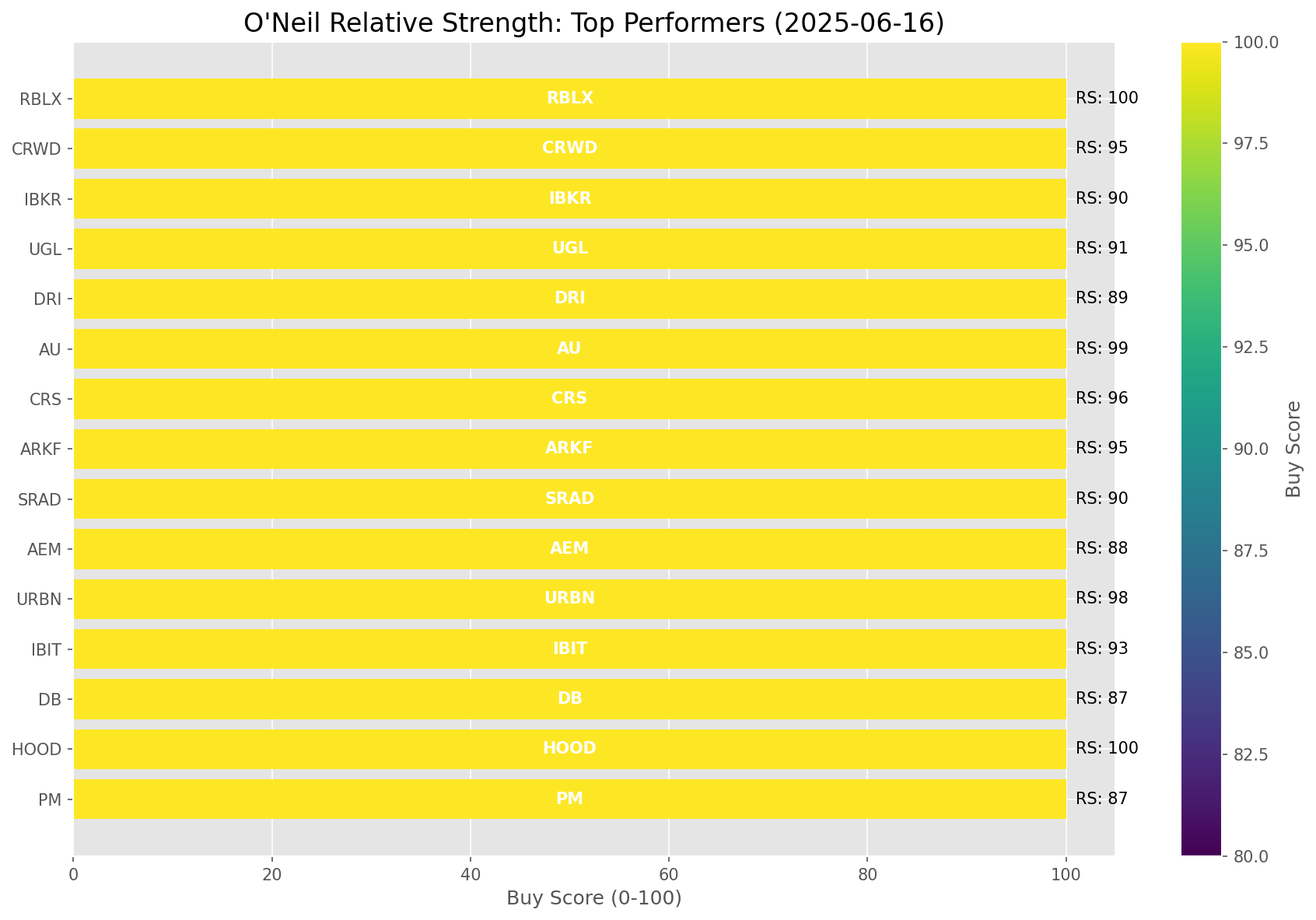
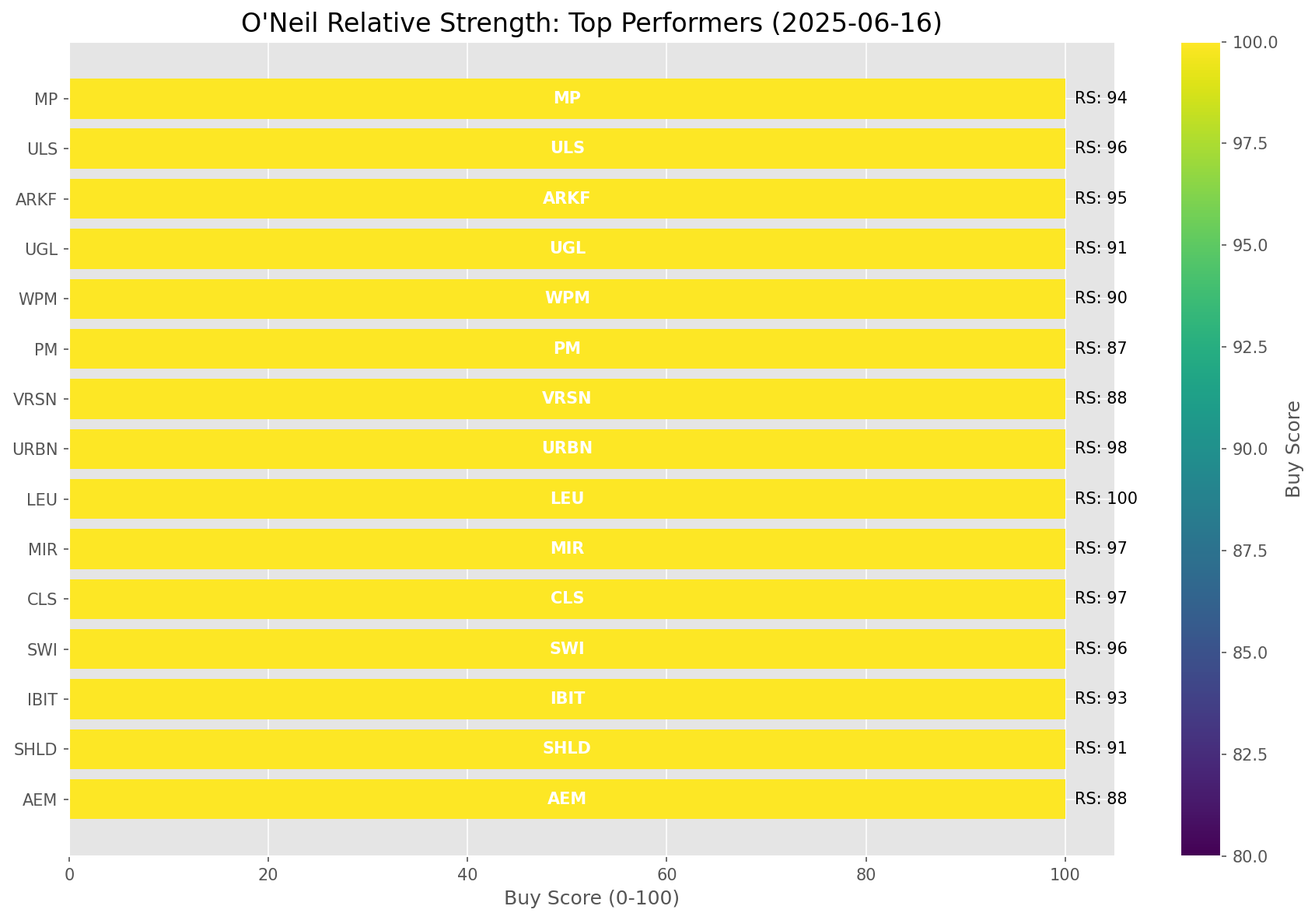
Add market report for 2025-06-16

diff --git a/oneil_relative_strength_report_2025-06-16.md b/oneil_relative_strength_report_2025-06-16.md
@@ -106,79 +106,87 @@ The **Next Generation Internet** sector (represented by **ARKW**) is showing par
 
 ## **Buy Recommendations**
 
-The following 72 stocks show exceptional relative strength:
+The following 80 stocks show exceptional relative strength:
 
 | RS Rating | Buy Score | Current Price | Chart | Name | Ticker |
 |-----------|-----------|---------------|-------|------|--------|
-| 100 | 100 | $76.75 | [Chart](https://www.tradingview.com/chart/?symbol=HOOD) | Robinhood Markets, Inc. Class A Common Stock | HOOD |
-| 100 | 100 | $100.44 | [Chart](https://www.tradingview.com/chart/?symbol=RBLX) | Roblox Corporation | RBLX |
-| 100 | 100 | $141.41 | [Chart](https://www.tradingview.com/chart/?symbol=PLTR) | Palantir Technologies Inc. Class A Common Stock | PLTR |
 | 100 | 100 | $169.93 | [Chart](https://www.tradingview.com/chart/?symbol=LEU) | Centrus Energy Corp. | LEU |
+| 100 | 100 | $76.75 | [Chart](https://www.tradingview.com/chart/?symbol=HOOD) | Robinhood Markets, Inc. Class A Common Stock | HOOD |
+| 100 | 100 | $141.41 | [Chart](https://www.tradingview.com/chart/?symbol=PLTR) | Palantir Technologies Inc. Class A Common Stock | PLTR |
 | 100 | 100 | $146.43 | [Chart](https://www.tradingview.com/chart/?symbol=SEZL) | Sezzle Inc. Common Stock | SEZL |
 | 100 | 100 | $59.78 | [Chart](https://www.tradingview.com/chart/?symbol=HIMS) | Hims & Hers Health, Inc. | HIMS |
+| 100 | 100 | $100.44 | [Chart](https://www.tradingview.com/chart/?symbol=RBLX) | Roblox Corporation | RBLX |
 | 99 | 100 | $49.68 | [Chart](https://www.tradingview.com/chart/?symbol=AU) | AngloGold Ashanti plc | AU |
 | 99 | 100 | $179.27 | [Chart](https://www.tradingview.com/chart/?symbol=NET) | Cloudflare, Inc. Class A common stock, par value $0.001 per share | NET |
 | 98 | 100 | $70.82 | [Chart](https://www.tradingview.com/chart/?symbol=URBN) | Urban Outfitters Inc | URBN |
-| 98 | 100 | $43.82 | [Chart](https://www.tradingview.com/chart/?symbol=FARO) | Faro Technologies Inc | FARO |
 | 98 | 100 | $487.88 | [Chart](https://www.tradingview.com/chart/?symbol=GEV) | GE Vernova Inc. | GEV |
-| 97 | 100 | $144.36 | [Chart](https://www.tradingview.com/chart/?symbol=COOP) | Mr. Cooper Group Inc. Common Stock | COOP |
-| 97 | 100 | $780.61 | [Chart](https://www.tradingview.com/chart/?symbol=AXON) | Axon Enterprise, Inc. Common Stock | AXON |
+| 98 | 100 | $43.82 | [Chart](https://www.tradingview.com/chart/?symbol=FARO) | Faro Technologies Inc | FARO |
 | 97 | 100 | $128.24 | [Chart](https://www.tradingview.com/chart/?symbol=CLS) | Celestica, Inc. | CLS |
+| 97 | 100 | $20.56 | [Chart](https://www.tradingview.com/chart/?symbol=MIR) | Mirion Technologies, Inc. | MIR |
 | 97 | 100 | $26.46 | [Chart](https://www.tradingview.com/chart/?symbol=CRK) | Comstock Resources, Inc. | CRK |
+| 97 | 100 | $780.61 | [Chart](https://www.tradingview.com/chart/?symbol=AXON) | Axon Enterprise, Inc. Common Stock | AXON |
 | 97 | 100 | $23.46 | [Chart](https://www.tradingview.com/chart/?symbol=GRND) | Grindr Inc. | GRND |
-| 96 | 100 | $249.59 | [Chart](https://www.tradingview.com/chart/?symbol=CRS) | Carpenter Technology Corp | CRS |
+| 97 | 100 | $144.36 | [Chart](https://www.tradingview.com/chart/?symbol=COOP) | Mr. Cooper Group Inc. Common Stock | COOP |
 | 96 | 100 | $71.52 | [Chart](https://www.tradingview.com/chart/?symbol=ULS) | UL Solutions Inc. | ULS |
+| 96 | 100 | $249.59 | [Chart](https://www.tradingview.com/chart/?symbol=CRS) | Carpenter Technology Corp | CRS |
 | 96 | 100 | $280.92 | [Chart](https://www.tradingview.com/chart/?symbol=TLN) | Talen Energy Corporation Common Stock | TLN |
 | 95 | 100 | $45.94 | [Chart](https://www.tradingview.com/chart/?symbol=ARKF) | ARK Fintech Innovation ETF | ARKF |
-| 95 | 100 | $479.39 | [Chart](https://www.tradingview.com/chart/?symbol=CRWD) | CrowdStrike Holdings, Inc. Class A Common Stock | CRWD |
-| 95 | 100 | $26.37 | [Chart](https://www.tradingview.com/chart/?symbol=OR) | OR Royalties Inc. | OR |
 | 95 | 100 | $253.60 | [Chart](https://www.tradingview.com/chart/?symbol=GWRE) | GUIDEWIRE SOFTWARE, INC. | GWRE |
+| 95 | 100 | $26.37 | [Chart](https://www.tradingview.com/chart/?symbol=OR) | OR Royalties Inc. | OR |
+| 95 | 100 | $479.39 | [Chart](https://www.tradingview.com/chart/?symbol=CRWD) | CrowdStrike Holdings, Inc. Class A Common Stock | CRWD |
+| 94 | 100 | $34.65 | [Chart](https://www.tradingview.com/chart/?symbol=MP) | MP Materials Corp. | MP |
+| 94 | 100 | $24.53 | [Chart](https://www.tradingview.com/chart/?symbol=TFPM) | Triple Flag Precious Metals Corp. | TFPM |
+| 94 | 100 | $41.21 | [Chart](https://www.tradingview.com/chart/?symbol=KTOS) | Kratos Defense & Security Solutions, Inc. | KTOS |
 | 94 | 100 | $1225.35 | [Chart](https://www.tradingview.com/chart/?symbol=NFLX) | NetFlix Inc | NFLX |
 | 93 | 100 | $61.80 | [Chart](https://www.tradingview.com/chart/?symbol=IBIT) | iShares Bitcoin Trust ETF | IBIT |
-| 93 | 100 | $21.46 | [Chart](https://www.tradingview.com/chart/?symbol=MAG) | MAG Silver Corp. | MAG |
-| 93 | 100 | $131.08 | [Chart](https://www.tradingview.com/chart/?symbol=NTES) | NetEase, inc. | NTES |
-| 93 | 100 | $506.39 | [Chart](https://www.tradingview.com/chart/?symbol=CASY) | Casey's General Stores Inc | CASY |
 | 93 | 100 | $181.26 | [Chart](https://www.tradingview.com/chart/?symbol=EAT) | Brinker International, Inc. | EAT |
+| 93 | 100 | $21.46 | [Chart](https://www.tradingview.com/chart/?symbol=MAG) | MAG Silver Corp. | MAG |
+| 93 | 100 | $506.39 | [Chart](https://www.tradingview.com/chart/?symbol=CASY) | Casey's General Stores Inc | CASY |
+| 93 | 100 | $131.08 | [Chart](https://www.tradingview.com/chart/?symbol=NTES) | NetEase, inc. | NTES |
 | 93 | 100 | $104.49 | [Chart](https://www.tradingview.com/chart/?symbol=JCI) | Johnson Controls International plc | JCI |
 | 92 | 100 | $162.41 | [Chart](https://www.tradingview.com/chart/?symbol=CAH) | Cardinal Health, Inc. | CAH |
+| 92 | 100 | $59.14 | [Chart](https://www.tradingview.com/chart/?symbol=CAKE) | Cheesecake Factory (The) | CAKE |
 | 92 | 100 | $55.75 | [Chart](https://www.tradingview.com/chart/?symbol=AKRO) | Akero Therapeutics, Inc. Common Stock | AKRO |
+| 91 | 100 | $58.83 | [Chart](https://www.tradingview.com/chart/?symbol=SHLD) | Global X Defense Tech ETF | SHLD |
 | 91 | 100 | $36.40 | [Chart](https://www.tradingview.com/chart/?symbol=UGL) | ProShares Ultra Gold | UGL |
 | 91 | 100 | $69.62 | [Chart](https://www.tradingview.com/chart/?symbol=GDXJ) | VanEck Junior Gold Miners ETF | GDXJ |
-| 91 | 100 | $58.83 | [Chart](https://www.tradingview.com/chart/?symbol=SHLD) | Global X Defense Tech ETF | SHLD |
-| 90 | 100 | $24.65 | [Chart](https://www.tradingview.com/chart/?symbol=SRAD) | Sportradar Group AG Class A Ordinary Shares | SRAD |
-| 90 | 100 | $209.66 | [Chart](https://www.tradingview.com/chart/?symbol=IBKR) | Interactive Brokers Group, Inc. Class A Common Stock | IBKR |
+| 90 | 100 | $91.89 | [Chart](https://www.tradingview.com/chart/?symbol=WPM) | Wheaton Precious Metals Corp. Common Stock | WPM |
 | 90 | 100 | $63.20 | [Chart](https://www.tradingview.com/chart/?symbol=CHEF) | The Chef's Warehouse Inc | CHEF |
+| 90 | 100 | $209.66 | [Chart](https://www.tradingview.com/chart/?symbol=IBKR) | Interactive Brokers Group, Inc. Class A Common Stock | IBKR |
+| 90 | 100 | $24.65 | [Chart](https://www.tradingview.com/chart/?symbol=SRAD) | Sportradar Group AG Class A Ordinary Shares | SRAD |
 | 90 | 100 | $74.19 | [Chart](https://www.tradingview.com/chart/?symbol=CTVA) | Corteva, Inc. Common Stock | CTVA |
-| 89 | 100 | $224.76 | [Chart](https://www.tradingview.com/chart/?symbol=DRI) | Darden Restaurants, Inc. | DRI |
 | 89 | 100 | $715.57 | [Chart](https://www.tradingview.com/chart/?symbol=SPOT) | Spotify Technology S.A. | SPOT |
+| 89 | 100 | $224.76 | [Chart](https://www.tradingview.com/chart/?symbol=DRI) | Darden Restaurants, Inc. | DRI |
 | 88 | 100 | $124.01 | [Chart](https://www.tradingview.com/chart/?symbol=AEM) | Agnico Eagle Mines Ltd. | AEM |
-| 88 | 100 | $84.26 | [Chart](https://www.tradingview.com/chart/?symbol=TPR) | Tapestry, Inc. Common Stock | TPR |
 | 88 | 100 | $281.08 | [Chart](https://www.tradingview.com/chart/?symbol=VRSN) | VeriSign Inc | VRSN |
+| 88 | 100 | $84.26 | [Chart](https://www.tradingview.com/chart/?symbol=TPR) | Tapestry, Inc. Common Stock | TPR |
 | 87 | 100 | $183.29 | [Chart](https://www.tradingview.com/chart/?symbol=PM) | Philip Morris International Inc. | PM |
 | 87 | 100 | $28.12 | [Chart](https://www.tradingview.com/chart/?symbol=DB) | Deutsche Bank Aktiengesellschaft | DB |
-| 89 | 99 | $53.55 | [Chart](https://www.tradingview.com/chart/?symbol=GDX) | VanEck Gold Miners ETF | GDX |
 | 89 | 99 | $197.62 | [Chart](https://www.tradingview.com/chart/?symbol=COF) | Capital One Financial | COF |
-| 87 | 99 | $49.00 | [Chart](https://www.tradingview.com/chart/?symbol=BTI) | British American Tobacco p.l.c. American Depositary Shares, American Depositary Shares, each representing one Ordinary Share | BTI |
+| 89 | 99 | $53.55 | [Chart](https://www.tradingview.com/chart/?symbol=GDX) | VanEck Gold Miners ETF | GDX |
 | 87 | 99 | $29.24 | [Chart](https://www.tradingview.com/chart/?symbol=IMAX) | Imax Corp | IMAX |
+| 87 | 99 | $49.00 | [Chart](https://www.tradingview.com/chart/?symbol=BTI) | British American Tobacco p.l.c. American Depositary Shares, American Depositary Shares, each representing one Ordinary Share | BTI |
 | 86 | 99 | $41.92 | [Chart](https://www.tradingview.com/chart/?symbol=VIRT) | Virtu Financial, Inc. Class A | VIRT |
 | 85 | 99 | $238.60 | [Chart](https://www.tradingview.com/chart/?symbol=TTWO) | Take-Two Interactive Software Inc | TTWO |
 | 89 | 98 | $48.69 | [Chart](https://www.tradingview.com/chart/?symbol=SIL) | Global X Silver Miners ETF (NEW) | SIL |
+| 85 | 97 | $76.17 | [Chart](https://www.tradingview.com/chart/?symbol=LLYVK) | Liberty Media Corporation Series C Liberty Live Common Stock | LLYVK |
 | 86 | 96 | $86.68 | [Chart](https://www.tradingview.com/chart/?symbol=NDAQ) | Nasdaq, Inc. Common Stock | NDAQ |
-| 86 | 96 | $187.54 | [Chart](https://www.tradingview.com/chart/?symbol=CVLT) | Commault Systems, Inc. | CVLT |
 | 86 | 96 | $135.88 | [Chart](https://www.tradingview.com/chart/?symbol=PPA) | Invesco Aerospace & Defense ETF | PPA |
+| 86 | 96 | $187.54 | [Chart](https://www.tradingview.com/chart/?symbol=CVLT) | Commault Systems, Inc. | CVLT |
+| 85 | 96 | $218.32 | [Chart](https://www.tradingview.com/chart/?symbol=BAP) | Credicorp LTD | BAP |
 | 85 | 96 | $179.70 | [Chart](https://www.tradingview.com/chart/?symbol=RGLD) | Royal Gold Inc | RGLD |
 | 85 | 95 | $87.97 | [Chart](https://www.tradingview.com/chart/?symbol=SANM) | Sanmina  Corp | SANM |
 | 83 | 95 | $43.55 | [Chart](https://www.tradingview.com/chart/?symbol=EWP) | iShares MSCI Spain ETF | EWP |
 | 84 | 94 | $198.10 | [Chart](https://www.tradingview.com/chart/?symbol=GPOR) | Gulfport Energy Corporation | GPOR |
-| 81 | 94 | $63.80 | [Chart](https://www.tradingview.com/chart/?symbol=IAU) | iShares Gold Trust | IAU |
-| 81 | 94 | $32.28 | [Chart](https://www.tradingview.com/chart/?symbol=SGOL) | abrdn Physical Gold Shares ETF | SGOL |
-| 81 | 94 | $33.42 | [Chart](https://www.tradingview.com/chart/?symbol=AAAU) | Goldman Sachs Physical Gold ETF Shares | AAAU |
-| 81 | 94 | $311.78 | [Chart](https://www.tradingview.com/chart/?symbol=GLD) | SPDR Gold Trust, SPDR Gold Shares | GLD |
-| 81 | 94 | $32.62 | [Chart](https://www.tradingview.com/chart/?symbol=OUNZ) | VanEck Merk Gold ETF | OUNZ |
-| 81 | 94 | $67.02 | [Chart](https://www.tradingview.com/chart/?symbol=GLDM) | SPDR Gold MiniShares | GLDM |
 | 81 | 94 | $58.17 | [Chart](https://www.tradingview.com/chart/?symbol=EQT) | EQT CORP | EQT |
-| 84 | 93 | $49.30 | [Chart](https://www.tradingview.com/chart/?symbol=GH) | Guardant Health, Inc. Common Stock | GH |
+| 81 | 94 | $311.78 | [Chart](https://www.tradingview.com/chart/?symbol=GLD) | SPDR Gold Trust, SPDR Gold Shares | GLD |
+| 81 | 94 | $32.28 | [Chart](https://www.tradingview.com/chart/?symbol=SGOL) | abrdn Physical Gold Shares ETF | SGOL |
+| 81 | 94 | $32.62 | [Chart](https://www.tradingview.com/chart/?symbol=OUNZ) | VanEck Merk Gold ETF | OUNZ |
+| 81 | 94 | $63.80 | [Chart](https://www.tradingview.com/chart/?symbol=IAU) | iShares Gold Trust | IAU |
+| 81 | 94 | $67.02 | [Chart](https://www.tradingview.com/chart/?symbol=GLDM) | SPDR Gold MiniShares | GLDM |
+| 81 | 94 | $33.42 | [Chart](https://www.tradingview.com/chart/?symbol=AAAU) | Goldman Sachs Physical Gold ETF Shares | AAAU |
 | 84 | 93 | $88.97 | [Chart](https://www.tradingview.com/chart/?symbol=SCHW) | The Charles Schwab Corporation | SCHW |
+| 84 | 93 | $49.30 | [Chart](https://www.tradingview.com/chart/?symbol=GH) | Guardant Health, Inc. Common Stock | GH |
 | 83 | 93 | $80.44 | [Chart](https://www.tradingview.com/chart/?symbol=BBCA) | JPMorgan BetaBuilders Canada ETF | BBCA |
 | 81 | 93 | $33.74 | [Chart](https://www.tradingview.com/chart/?symbol=IAUM) | iShares Gold Trust Micro | IAUM |
 | 81 | 91 | $168.25 | [Chart](https://www.tradingview.com/chart/?symbol=NTRA) | Natera, Inc. Common Stock | NTRA |
@@ -193,55 +201,55 @@ The following 141 stocks show deteriorating relative strength:
 | RS Rating | Sell Score | Current Price | Chart | Name | Ticker |
 |-----------|------------|---------------|-------|------|--------|
 | 1 | 100 | $30.47 | [Chart](https://www.tradingview.com/chart/?symbol=TECS) | Direxion Daily Technology Bear 3x Shares | TECS |
-| 1 | 100 | $12.39 | [Chart](https://www.tradingview.com/chart/?symbol=IART) | Integra LifeSciences Holdings | IART |
 | 1 | 100 | $16.53 | [Chart](https://www.tradingview.com/chart/?symbol=NVDS) | Investment Managers Series Trust II Tradr 1.5X Short NVDA Daily ETF | NVDS |
-| 2 | 100 | $10.72 | [Chart](https://www.tradingview.com/chart/?symbol=WNC) | Wabash National Corp. | WNC |
-| 2 | 100 | $10.25 | [Chart](https://www.tradingview.com/chart/?symbol=SNDX) | Syndax Pharmaceuticals, Inc. | SNDX |
+| 1 | 100 | $12.39 | [Chart](https://www.tradingview.com/chart/?symbol=IART) | Integra LifeSciences Holdings | IART |
 | 2 | 100 | $50.50 | [Chart](https://www.tradingview.com/chart/?symbol=LGIH) | LGI Homes, Inc. | LGIH |
-| 2 | 100 | $17.88 | [Chart](https://www.tradingview.com/chart/?symbol=ICHR) | Ichor Holdings | ICHR |
 | 2 | 100 | $11.91 | [Chart](https://www.tradingview.com/chart/?symbol=NRIX) | Nurix Therapeutics, Inc. Common stock | NRIX |
+| 2 | 100 | $10.72 | [Chart](https://www.tradingview.com/chart/?symbol=WNC) | Wabash National Corp. | WNC |
 | 2 | 100 | $10.14 | [Chart](https://www.tradingview.com/chart/?symbol=PACS) | PACS Group, Inc. | PACS |
 | 2 | 100 | $23.91 | [Chart](https://www.tradingview.com/chart/?symbol=CRTO) | Criteo S.A. | CRTO |
-| 3 | 100 | $13.43 | [Chart](https://www.tradingview.com/chart/?symbol=INMD) | InMode Ltd. Ordinary Shares | INMD |
+| 2 | 100 | $10.25 | [Chart](https://www.tradingview.com/chart/?symbol=SNDX) | Syndax Pharmaceuticals, Inc. | SNDX |
+| 2 | 100 | $17.88 | [Chart](https://www.tradingview.com/chart/?symbol=ICHR) | Ichor Holdings | ICHR |
+| 3 | 100 | $20.57 | [Chart](https://www.tradingview.com/chart/?symbol=THS) | Treehouse Foods, Inc. | THS |
+| 3 | 100 | $133.04 | [Chart](https://www.tradingview.com/chart/?symbol=KRYS) | Krystal Biotech, Inc. Common Stock | KRYS |
 | 3 | 100 | $98.87 | [Chart](https://www.tradingview.com/chart/?symbol=ONTO) | Onto Innovation Inc. | ONTO |
 | 3 | 100 | $18.30 | [Chart](https://www.tradingview.com/chart/?symbol=APLS) | Apellis Pharmaceuticals, Inc. Common Stock | APLS |
-| 3 | 100 | $133.04 | [Chart](https://www.tradingview.com/chart/?symbol=KRYS) | Krystal Biotech, Inc. Common Stock | KRYS |
-| 3 | 100 | $20.57 | [Chart](https://www.tradingview.com/chart/?symbol=THS) | Treehouse Foods, Inc. | THS |
+| 3 | 100 | $13.43 | [Chart](https://www.tradingview.com/chart/?symbol=INMD) | InMode Ltd. Ordinary Shares | INMD |
 | 3 | 100 | $43.69 | [Chart](https://www.tradingview.com/chart/?symbol=LINE) | Lineage, Inc. Common Stock | LINE |
+| 4 | 100 | $29.48 | [Chart](https://www.tradingview.com/chart/?symbol=FUN) | Six Flags Entertainment Corporation | FUN |
 | 4 | 100 | $23.61 | [Chart](https://www.tradingview.com/chart/?symbol=JANX) | Janux Therapeutics, Inc. Common Stock | JANX |
 | 4 | 100 | $33.78 | [Chart](https://www.tradingview.com/chart/?symbol=CYTK) | Cytokinetics Inc. | CYTK |
-| 4 | 100 | $29.48 | [Chart](https://www.tradingview.com/chart/?symbol=FUN) | Six Flags Entertainment Corporation | FUN |
-| 5 | 100 | $11.34 | [Chart](https://www.tradingview.com/chart/?symbol=HPK) | HighPeak Energy, Inc. Common Stock | HPK |
-| 5 | 100 | $10.84 | [Chart](https://www.tradingview.com/chart/?symbol=TWO) | Two Harbors Investment Corp. | TWO |
-| 5 | 100 | $21.58 | [Chart](https://www.tradingview.com/chart/?symbol=AMRK) | A-Mark Precious Metals, Inc. | AMRK |
-| 5 | 100 | $11.26 | [Chart](https://www.tradingview.com/chart/?symbol=PUBM) | PubMatic, Inc. Class A Common Stock | PUBM |
 | 5 | 100 | $51.48 | [Chart](https://www.tradingview.com/chart/?symbol=SLVM) | Sylvamo Corporation | SLVM |
-| 6 | 100 | $84.22 | [Chart](https://www.tradingview.com/chart/?symbol=LNW) | Light & Wonder, Inc. Common Stock | LNW |
-| 6 | 100 | $15.28 | [Chart](https://www.tradingview.com/chart/?symbol=SAFE) | Safehold Inc. | SAFE |
-| 6 | 100 | $20.53 | [Chart](https://www.tradingview.com/chart/?symbol=HI) | Hillenbrand, Inc. | HI |
+| 5 | 100 | $10.84 | [Chart](https://www.tradingview.com/chart/?symbol=TWO) | Two Harbors Investment Corp. | TWO |
+| 5 | 100 | $11.34 | [Chart](https://www.tradingview.com/chart/?symbol=HPK) | HighPeak Energy, Inc. Common Stock | HPK |
+| 5 | 100 | $11.26 | [Chart](https://www.tradingview.com/chart/?symbol=PUBM) | PubMatic, Inc. Class A Common Stock | PUBM |
+| 5 | 100 | $21.58 | [Chart](https://www.tradingview.com/chart/?symbol=AMRK) | A-Mark Precious Metals, Inc. | AMRK |
 | 6 | 100 | $10.62 | [Chart](https://www.tradingview.com/chart/?symbol=CWK) | Cushman & Wakefield plc Ordinary Shares | CWK |
+| 6 | 100 | $20.53 | [Chart](https://www.tradingview.com/chart/?symbol=HI) | Hillenbrand, Inc. | HI |
+| 6 | 100 | $15.28 | [Chart](https://www.tradingview.com/chart/?symbol=SAFE) | Safehold Inc. | SAFE |
+| 6 | 100 | $84.22 | [Chart](https://www.tradingview.com/chart/?symbol=LNW) | Light & Wonder, Inc. Common Stock | LNW |
 | 7 | 100 | $23.54 | [Chart](https://www.tradingview.com/chart/?symbol=RPD) | Rapid7, Inc. Common Stock | RPD |
-| 7 | 100 | $16.94 | [Chart](https://www.tradingview.com/chart/?symbol=AMTB) | Amerant Bancorp Inc. | AMTB |
 | 7 | 100 | $38.49 | [Chart](https://www.tradingview.com/chart/?symbol=APOG) | Apogee Enterprises Inc | APOG |
-| 8 | 100 | $17.25 | [Chart](https://www.tradingview.com/chart/?symbol=CODI) | Compass Diversified | CODI |
+| 7 | 100 | $16.94 | [Chart](https://www.tradingview.com/chart/?symbol=AMTB) | Amerant Bancorp Inc. | AMTB |
 | 8 | 100 | $36.23 | [Chart](https://www.tradingview.com/chart/?symbol=TMF) | Direxion Daily 20+ Year Treasury Bull 3X Shares (based on the NYSE 20 Year Plus Treasury Bond Index; symbol AXTWEN) | TMF |
 | 8 | 100 | $18.22 | [Chart](https://www.tradingview.com/chart/?symbol=DNTH) | Dianthus Therapeutics, Inc. Common Stock | DNTH |
 | 8 | 100 | $12.98 | [Chart](https://www.tradingview.com/chart/?symbol=THRY) | Thryv Holdings, Inc. Common Stock | THRY |
-| 9 | 100 | $10.15 | [Chart](https://www.tradingview.com/chart/?symbol=NMFC) | NEW MOUNTAIN FINANCE CORPORATION | NMFC |
+| 8 | 100 | $17.25 | [Chart](https://www.tradingview.com/chart/?symbol=CODI) | Compass Diversified | CODI |
 | 9 | 100 | $20.60 | [Chart](https://www.tradingview.com/chart/?symbol=SPT) | Sprout Social, Inc Class A Common Stock | SPT |
-| 10 | 100 | $19.40 | [Chart](https://www.tradingview.com/chart/?symbol=HVT) | Haverty Furniture Companies, Inc. | HVT |
+| 9 | 100 | $10.15 | [Chart](https://www.tradingview.com/chart/?symbol=NMFC) | NEW MOUNTAIN FINANCE CORPORATION | NMFC |
 | 10 | 100 | $51.95 | [Chart](https://www.tradingview.com/chart/?symbol=AMWD) | American Woodmark Corp | AMWD |
+| 10 | 100 | $19.40 | [Chart](https://www.tradingview.com/chart/?symbol=HVT) | Haverty Furniture Companies, Inc. | HVT |
+| 11 | 100 | $85.82 | [Chart](https://www.tradingview.com/chart/?symbol=BCC) | Boise Cascade Company | BCC |
 | 11 | 100 | $26.47 | [Chart](https://www.tradingview.com/chart/?symbol=WSC) | WillScot Holdings Corporation Class A Common Stock | WSC |
 | 11 | 100 | $121.11 | [Chart](https://www.tradingview.com/chart/?symbol=TFX) | Teleflex Incorporated | TFX |
-| 11 | 100 | $85.82 | [Chart](https://www.tradingview.com/chart/?symbol=BCC) | Boise Cascade Company | BCC |
 | 12 | 100 | $10.02 | [Chart](https://www.tradingview.com/chart/?symbol=LBTYA) | Liberty Global Ltd. Class A Common Shares | LBTYA |
 | 13 | 100 | $29.80 | [Chart](https://www.tradingview.com/chart/?symbol=RNA) | Avidity Biosciences, Inc. Common Stock | RNA |
-| 15 | 100 | $133.24 | [Chart](https://www.tradingview.com/chart/?symbol=ICUI) | ICU Medical Inc | ICUI |
 | 15 | 100 | $113.09 | [Chart](https://www.tradingview.com/chart/?symbol=AMR) | Alpha Metallurgical Resources, Inc. | AMR |
+| 15 | 100 | $133.24 | [Chart](https://www.tradingview.com/chart/?symbol=ICUI) | ICU Medical Inc | ICUI |
 | 17 | 100 | $10.20 | [Chart](https://www.tradingview.com/chart/?symbol=LBTYK) | Liberty Global Ltd. Class C Common Shares | LBTYK |
 | 6 | 99 | $29.22 | [Chart](https://www.tradingview.com/chart/?symbol=QDEL) | QuidelOrtho Corporation Common Stock | QDEL |
-| 10 | 99 | $41.67 | [Chart](https://www.tradingview.com/chart/?symbol=PRKS) | United Parks & Resorts Inc. | PRKS |
 | 10 | 99 | $17.70 | [Chart](https://www.tradingview.com/chart/?symbol=ZTO) | ZTO Express (Cayman) Inc. American Depositary Shares, each representing one Class A ordinary share | ZTO |
+| 10 | 99 | $41.67 | [Chart](https://www.tradingview.com/chart/?symbol=PRKS) | United Parks & Resorts Inc. | PRKS |
 | 11 | 99 | $18.66 | [Chart](https://www.tradingview.com/chart/?symbol=PLAB) | Photronics Inc | PLAB |
 | 12 | 99 | $46.43 | [Chart](https://www.tradingview.com/chart/?symbol=SDOW) | ProShares UltraPro Short Dow 30 | SDOW |
 | 14 | 99 | $74.46 | [Chart](https://www.tradingview.com/chart/?symbol=CBT) | Cabot Corporation | CBT |
@@ -251,8 +259,8 @@ The following 141 stocks show deteriorating relative strength:
 | 10 | 98 | $12.45 | [Chart](https://www.tradingview.com/chart/?symbol=PMT) | PennyMac Mortgage Investment Trust | PMT |
 | 10 | 98 | $17.98 | [Chart](https://www.tradingview.com/chart/?symbol=IRT) | Independence Realty Trust Inc. | IRT |
 | 9 | 97 | $49.41 | [Chart](https://www.tradingview.com/chart/?symbol=SNY) | Sanofi American Depositary Shares (Each representing one-half of one ordinary share) | SNY |
-| 10 | 97 | $21.16 | [Chart](https://www.tradingview.com/chart/?symbol=KIDS) | OrthoPediatrics Corp. Common Stock | KIDS |
 | 10 | 97 | $12.24 | [Chart](https://www.tradingview.com/chart/?symbol=WSR) | Whitestone REIT | WSR |
+| 10 | 97 | $21.16 | [Chart](https://www.tradingview.com/chart/?symbol=KIDS) | OrthoPediatrics Corp. Common Stock | KIDS |
 | 11 | 97 | $15.08 | [Chart](https://www.tradingview.com/chart/?symbol=IGT) | International Game Technology PLC | IGT |
 | 6 | 96 | $12.43 | [Chart](https://www.tradingview.com/chart/?symbol=ERII) | Energy Recovery, Inc. | ERII |
 | 9 | 96 | $25.91 | [Chart](https://www.tradingview.com/chart/?symbol=ATHM) | Autohome Inc. American Depositary Shares, each representing four Class A Ordinary Shares | ATHM |
@@ -269,8 +277,8 @@ The following 141 stocks show deteriorating relative strength:
 | 8 | 92 | $126.09 | [Chart](https://www.tradingview.com/chart/?symbol=RGEN) | Repligen Corp | RGEN |
 | 16 | 92 | $96.85 | [Chart](https://www.tradingview.com/chart/?symbol=UFPI) | UFP Industries, Inc. Common Stock | UFPI |
 | 18 | 92 | $37.09 | [Chart](https://www.tradingview.com/chart/?symbol=LIT) | Global X Lithium & Battery Tech ETF | LIT |
-| 18 | 92 | $36.05 | [Chart](https://www.tradingview.com/chart/?symbol=NBHC) | NATIONAL BANK HOLDINGS CORP. | NBHC |
 | 18 | 92 | $14.98 | [Chart](https://www.tradingview.com/chart/?symbol=VRE) | Veris Residential, Inc. | VRE |
+| 18 | 92 | $36.05 | [Chart](https://www.tradingview.com/chart/?symbol=NBHC) | NATIONAL BANK HOLDINGS CORP. | NBHC |
 | 20 | 92 | $10.28 | [Chart](https://www.tradingview.com/chart/?symbol=NMZ) | Nuveen Municipal High Income Opportunity Fund | NMZ |
 | 13 | 91 | $62.49 | [Chart](https://www.tradingview.com/chart/?symbol=MAS) | Masco Corporation | MAS |
 | 17 | 91 | $64.29 | [Chart](https://www.tradingview.com/chart/?symbol=EDV) | Vanguard World Funds Extended Duration ETF | EDV |
@@ -282,8 +290,8 @@ The following 141 stocks show deteriorating relative strength:
 | 14 | 89 | $73.71 | [Chart](https://www.tradingview.com/chart/?symbol=AAON) | Aaon Inc | AAON |
 | 15 | 89 | $10.38 | [Chart](https://www.tradingview.com/chart/?symbol=LOCO) | El Pollo Loco Holdings, Inc. | LOCO |
 | 15 | 89 | $97.79 | [Chart](https://www.tradingview.com/chart/?symbol=CHD) | Church & Dwight Co., Inc. | CHD |
-| 16 | 89 | $38.04 | [Chart](https://www.tradingview.com/chart/?symbol=LKQ) | LKQ Corporation | LKQ |
 | 16 | 89 | $103.07 | [Chart](https://www.tradingview.com/chart/?symbol=MHK) | Mohawk Industries, Inc. | MHK |
+| 16 | 89 | $38.04 | [Chart](https://www.tradingview.com/chart/?symbol=LKQ) | LKQ Corporation | LKQ |
 | 17 | 89 | $61.80 | [Chart](https://www.tradingview.com/chart/?symbol=ELS) | Equity Lifestyle Properties, Inc. | ELS |
 | 18 | 89 | $41.04 | [Chart](https://www.tradingview.com/chart/?symbol=GBCI) | Glacier Bancorp Inc | GBCI |
 | 20 | 89 | $40.36 | [Chart](https://www.tradingview.com/chart/?symbol=NBTB) | NBT Bancorp Inc | NBTB |
@@ -298,8 +306,8 @@ The following 141 stocks show deteriorating relative strength:
 | 17 | 86 | $18.67 | [Chart](https://www.tradingview.com/chart/?symbol=DJT) | Trump Media & Technology Group Corp. Common Stock | DJT |
 | 25 | 86 | $55.24 | [Chart](https://www.tradingview.com/chart/?symbol=UHAL.B) | U-Haul Holding Company | UHAL.B |
 | 25 | 86 | $44.51 | [Chart](https://www.tradingview.com/chart/?symbol=SON) | Sonoco Products Company | SON |
-| 21 | 85 | $339.13 | [Chart](https://www.tradingview.com/chart/?symbol=EG) | Everest Group, Ltd. | EG |
 | 21 | 85 | $16.86 | [Chart](https://www.tradingview.com/chart/?symbol=UMH) | UMH Properties, Inc. | UMH |
+| 21 | 85 | $339.13 | [Chart](https://www.tradingview.com/chart/?symbol=EG) | Everest Group, Ltd. | EG |
 | 26 | 85 | $10.42 | [Chart](https://www.tradingview.com/chart/?symbol=MYI) | BLACKROCK MUNIYIELD QUALITY FUND III, INC. | MYI |
 | 23 | 83 | $41.16 | [Chart](https://www.tradingview.com/chart/?symbol=UDR) | UDR, Inc. | UDR |
 | 24 | 83 | $22.54 | [Chart](https://www.tradingview.com/chart/?symbol=TLTW) | iShares 20+ Year Treasury Bond BuyWrite Strategy ETF | TLTW |
